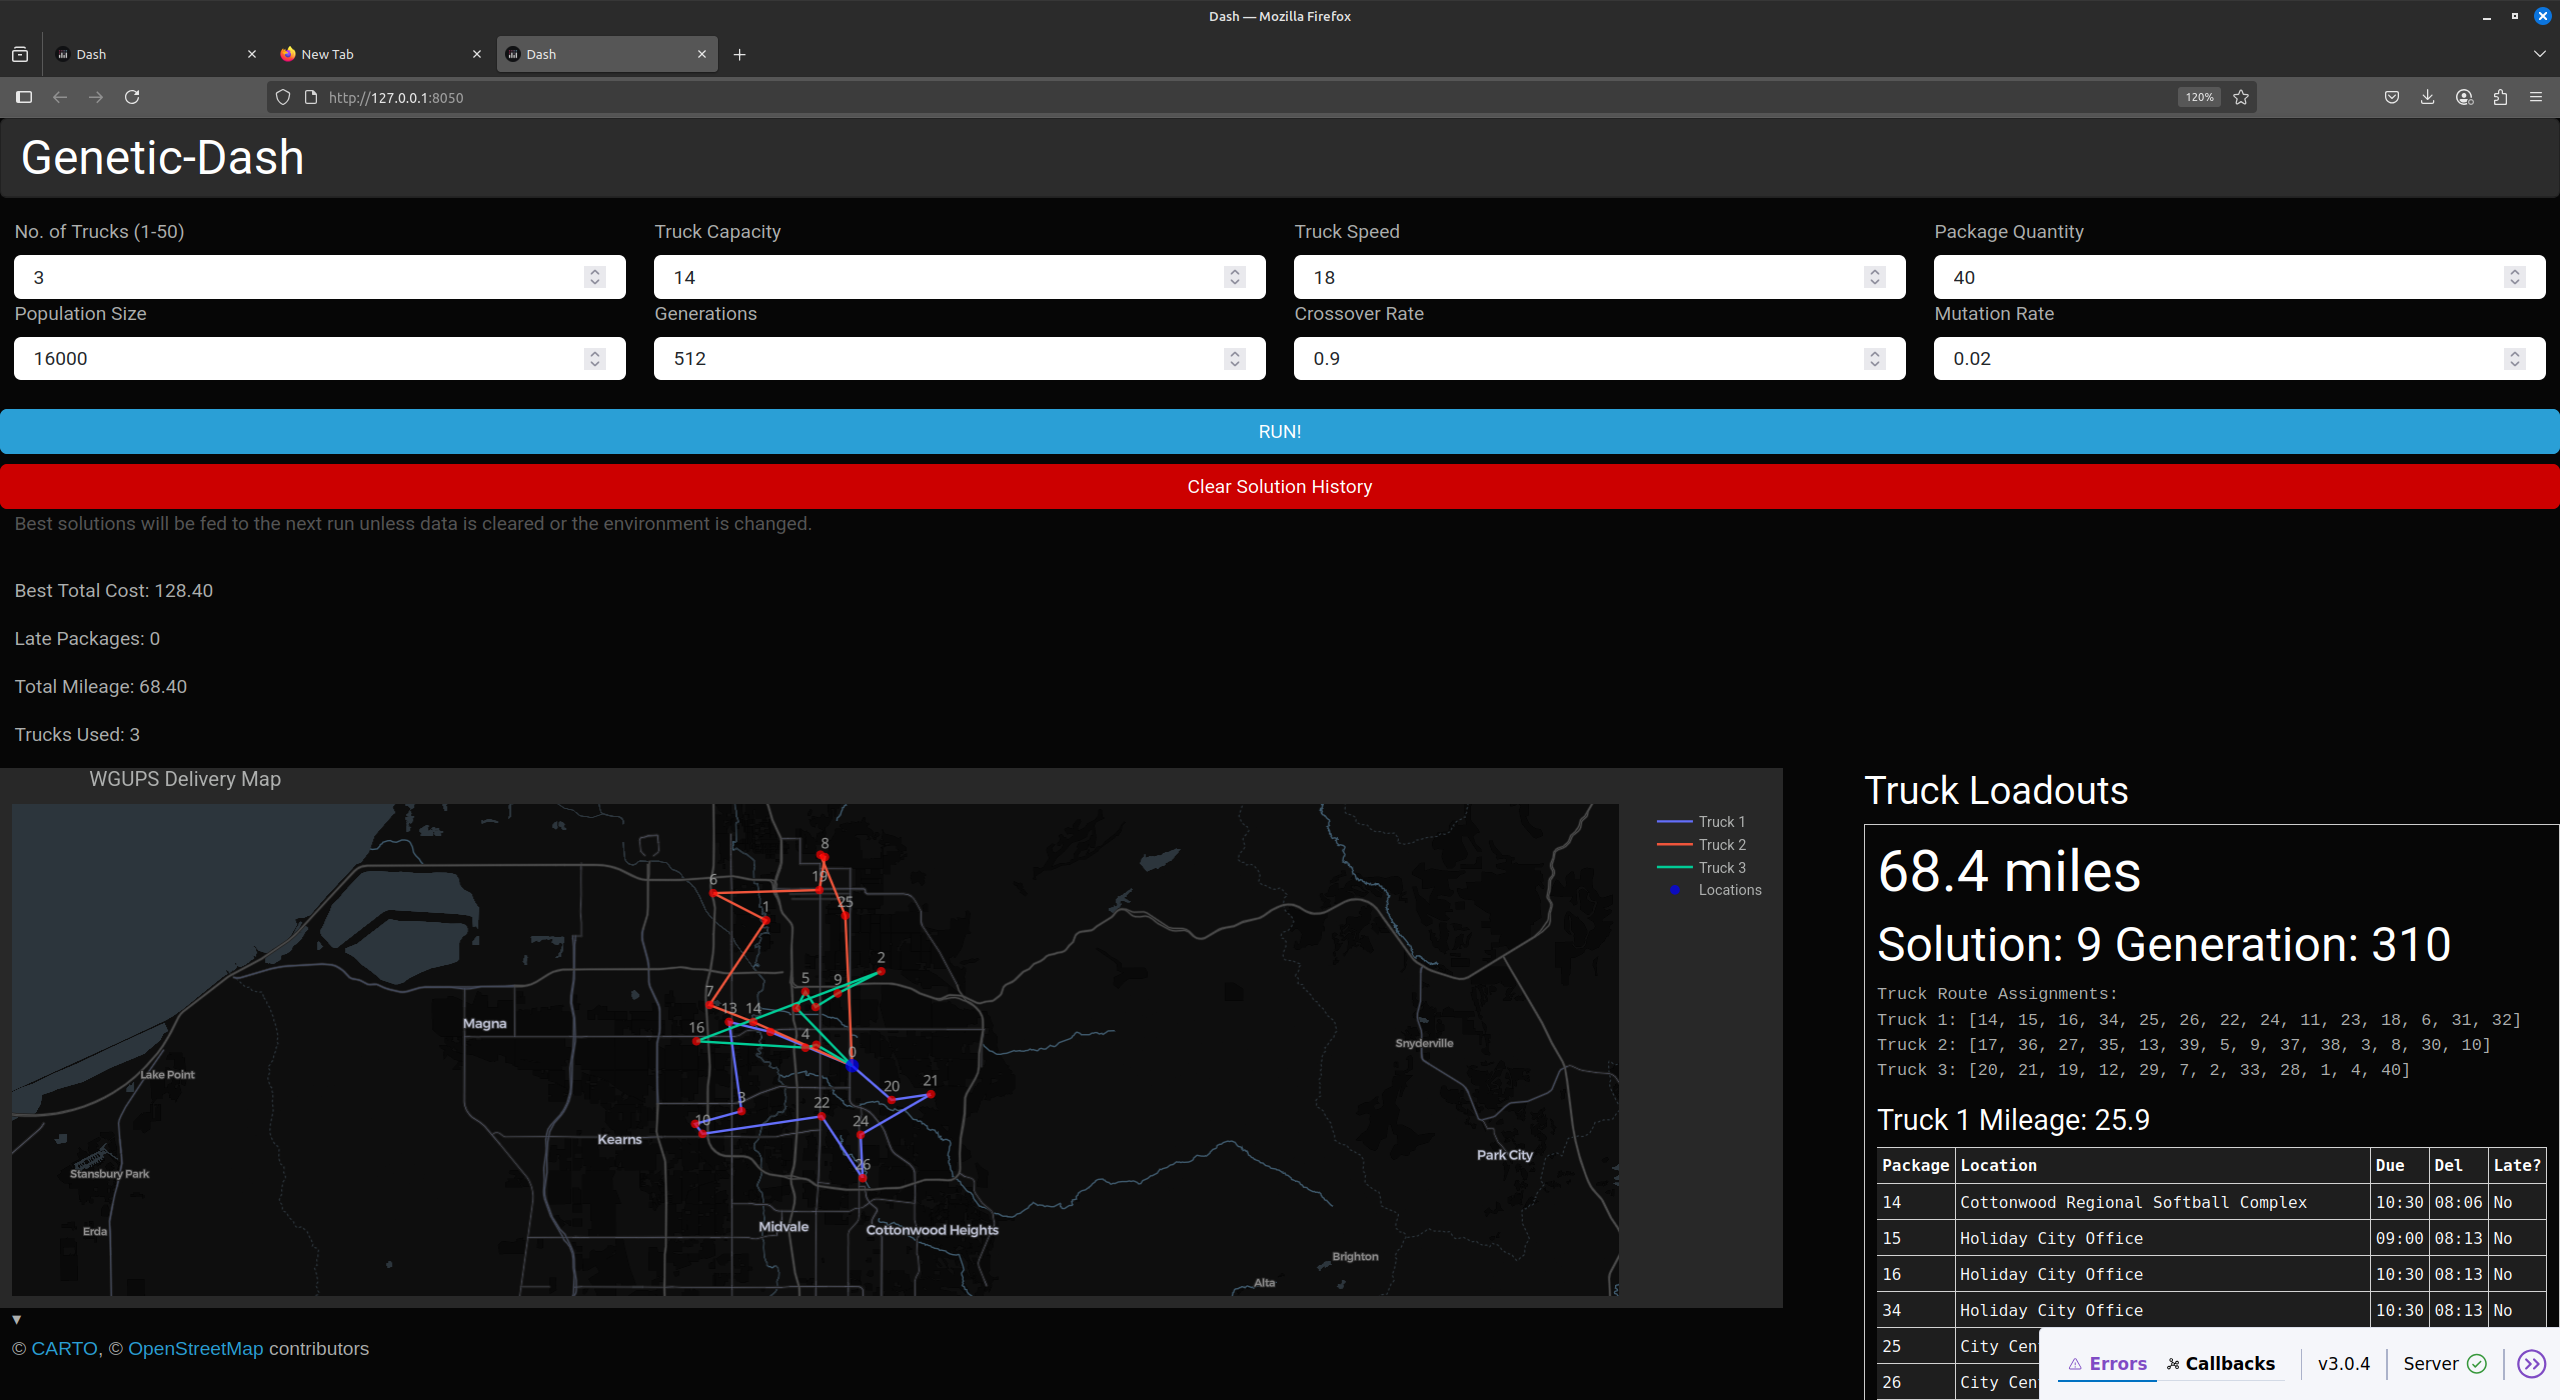
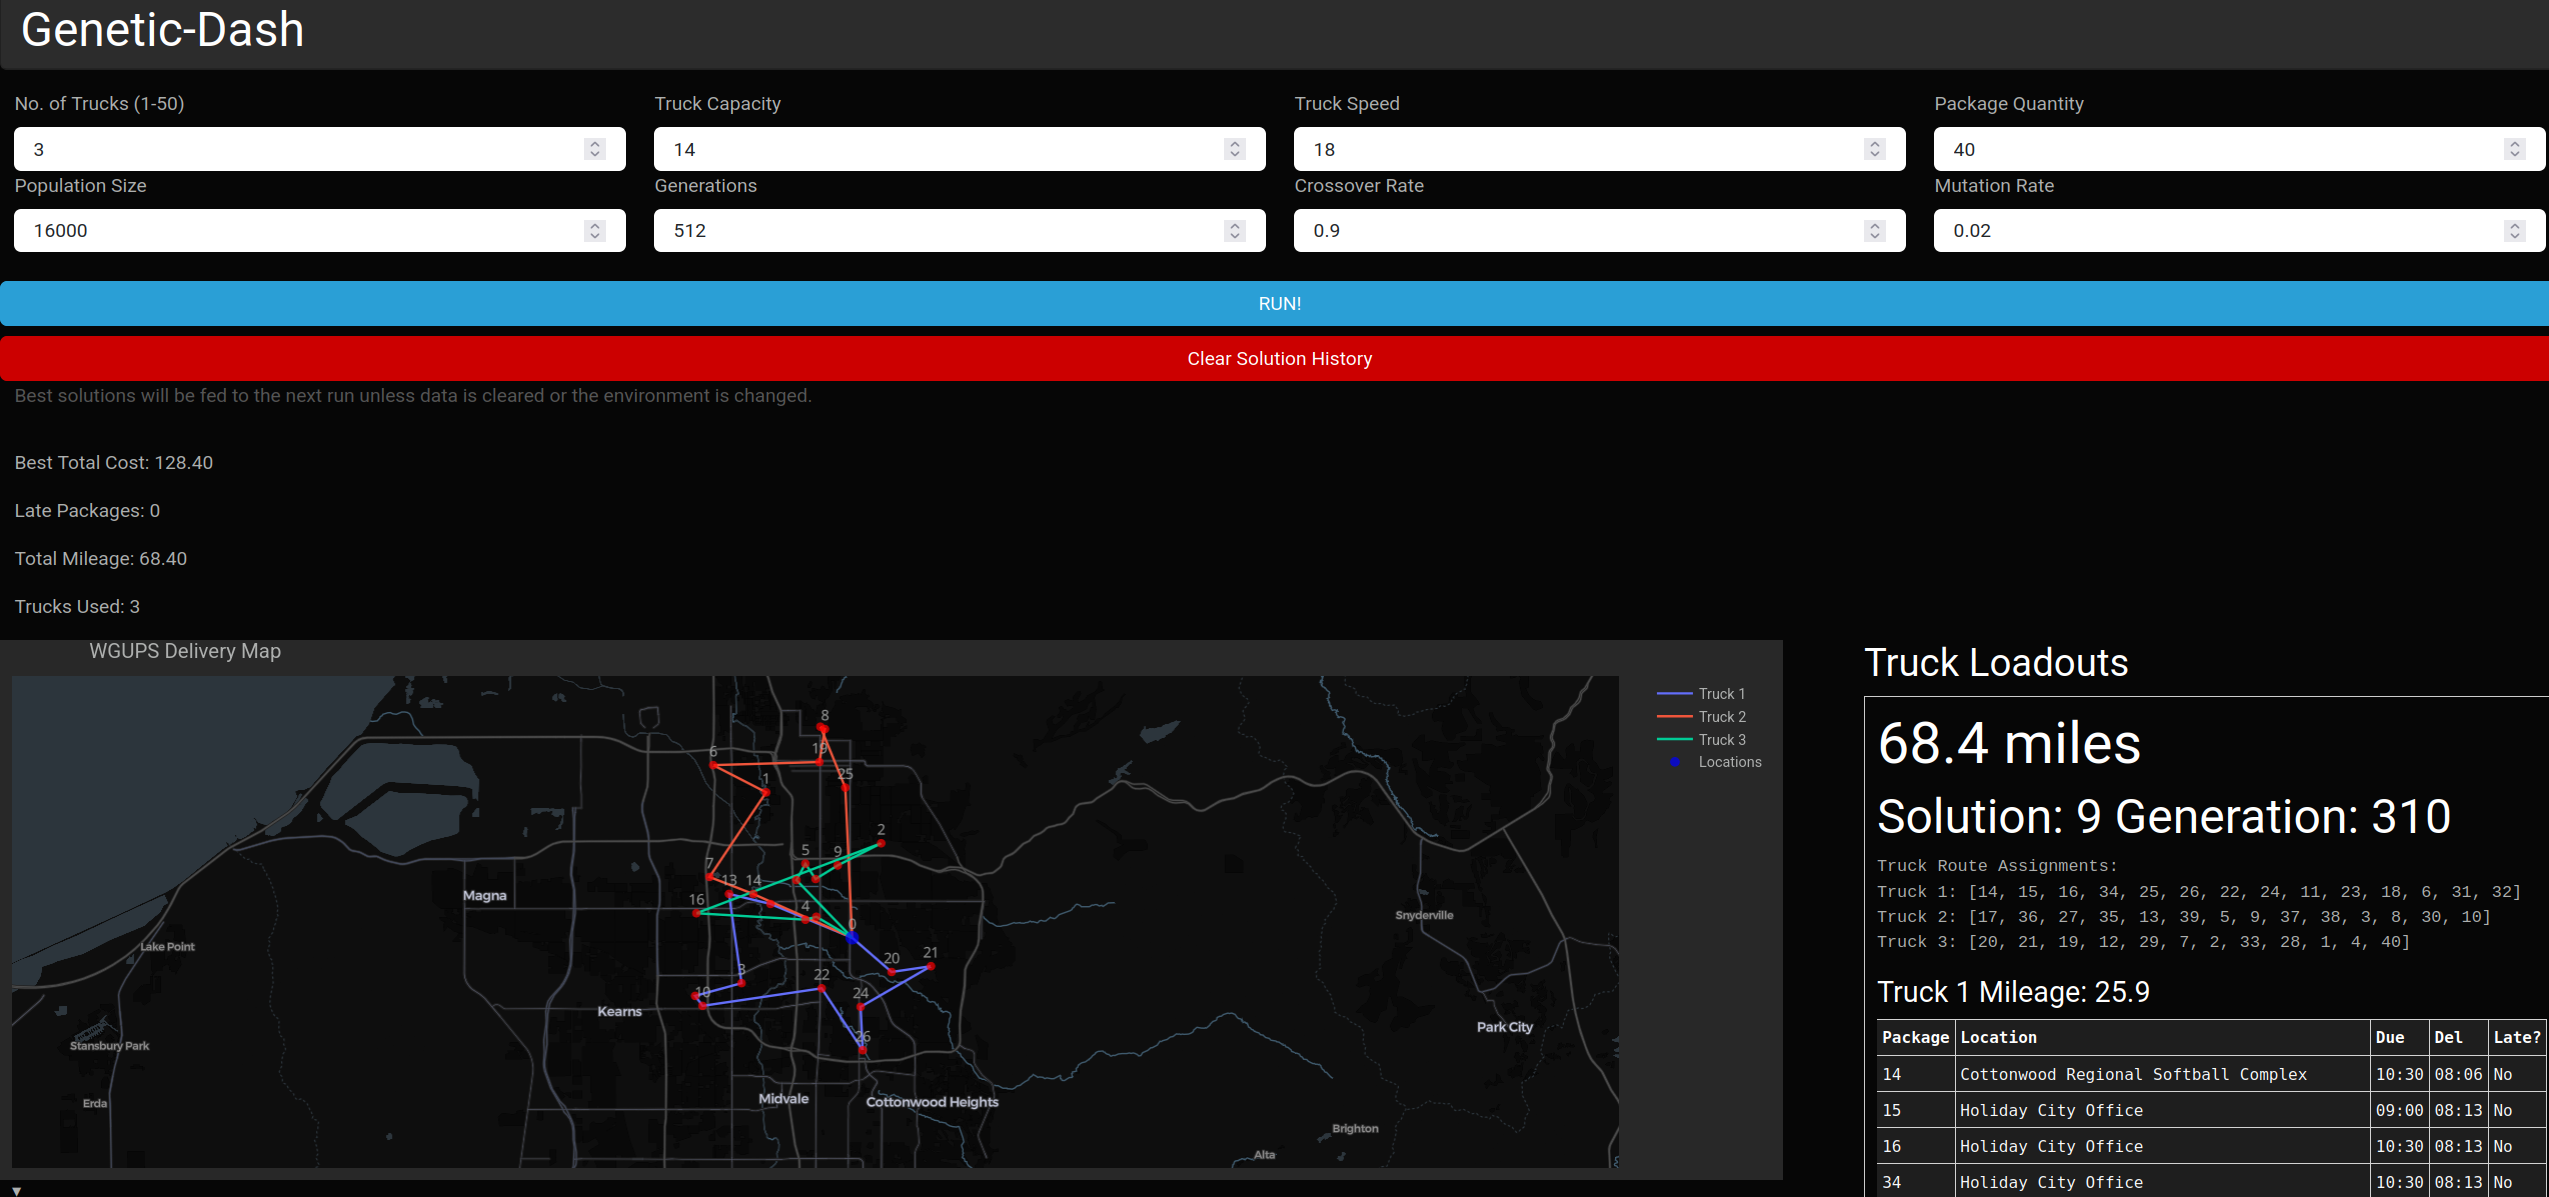
Improved outputs to console.  Improved scalability.  Added a truck reduction algorithm inside-of the mutation algorithm that gets called occasionally at random during mutation.  Fixed formatting on the charts.

diff --git a/README.md b/README.md
@@ -58,6 +58,10 @@ By default, truck settings are the business use case explored in the project but
 
 <b>Refilling from depot is current disabled so the generator will abort on launch if you attempt to assign more packages than your trucks have the capacity to meet.</b>
 
+The program scales up, although it will take much longer on more complicated problems.
+![scaled-up.png](screenshots/scaled-up.png)
+
+
 Note: Changing anything in the environmental inputs will clear the solution history.
 
 ### Generator Inputs
@@ -77,7 +81,7 @@ Mutation is when a solution has part of its own internal information swapped aro
 
 After completing a run the following visualizations / tools will become available for use:
 
->1. Interactive Map view with color coded truck routes. (shown above) with a slider bar for exploring the different best solutions discovered through each run. (shown below)
+>1. Interactive Map view with color coded truck routes. (shown above) with a slider bar for exploring the different best solutions discovered through each run.
 >3. Truck Loadout viewer. Used to validate data and display route information to the user. (shown above)
 >4. Stacked Cost Line Graph.  Useful for tracking the progression of cost reduction. (shown below)
 >5. Bar Chart showing the magnitude of cost improvement per generation.  Useful for analyzing for stagnation. (shown below)
